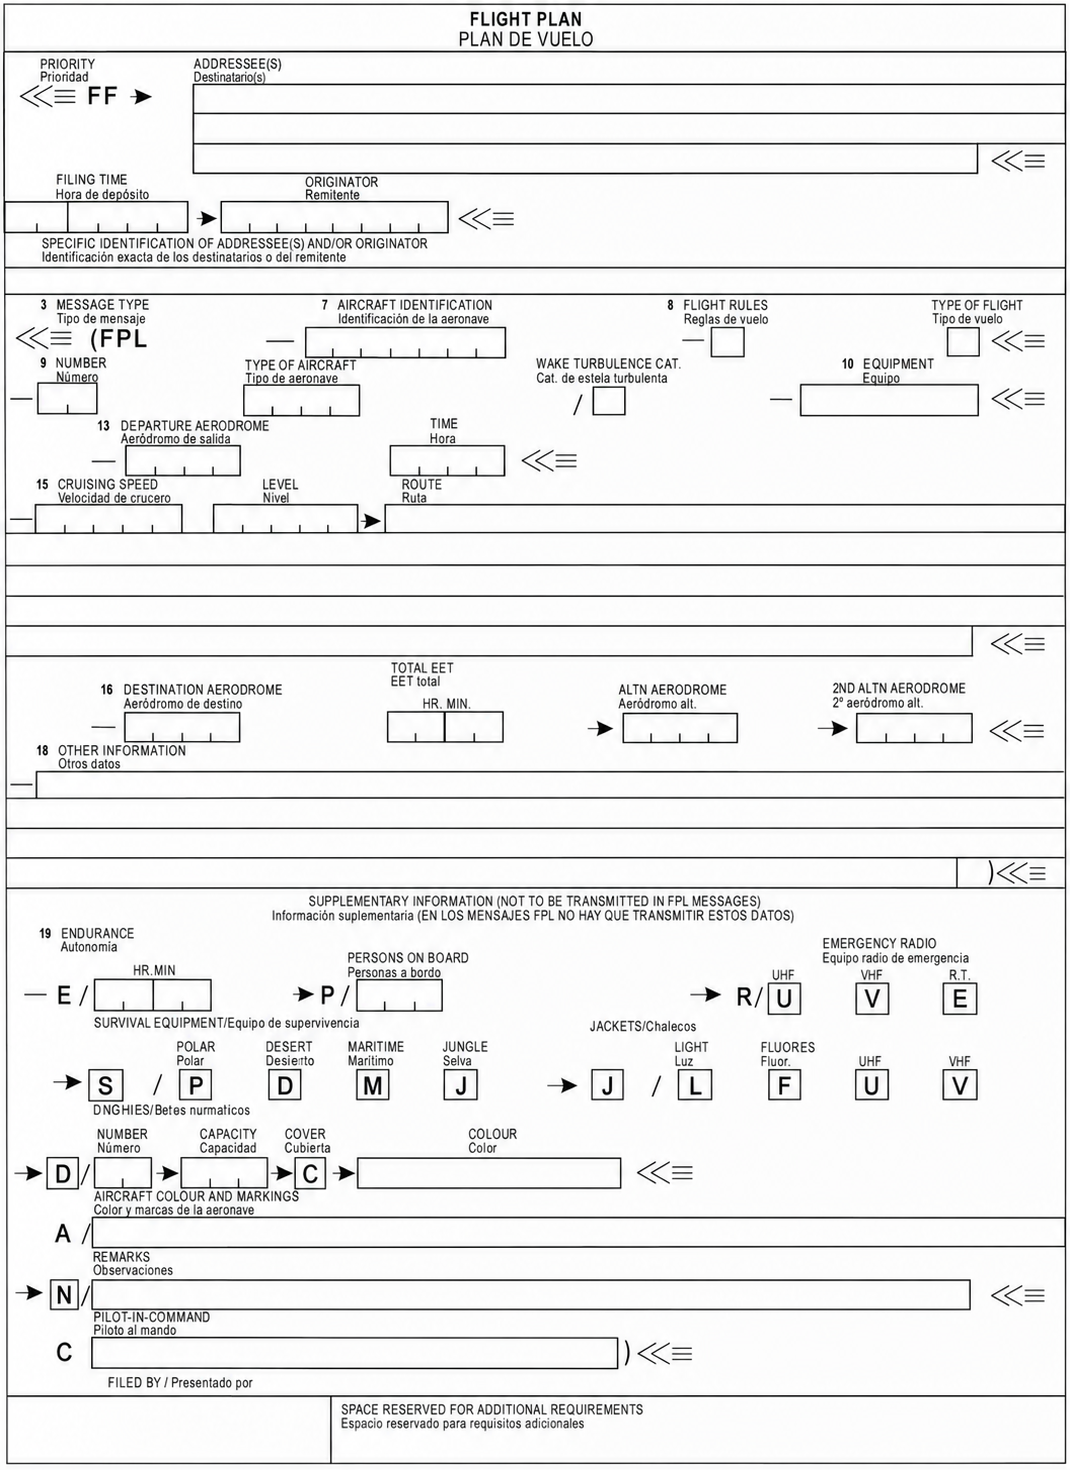
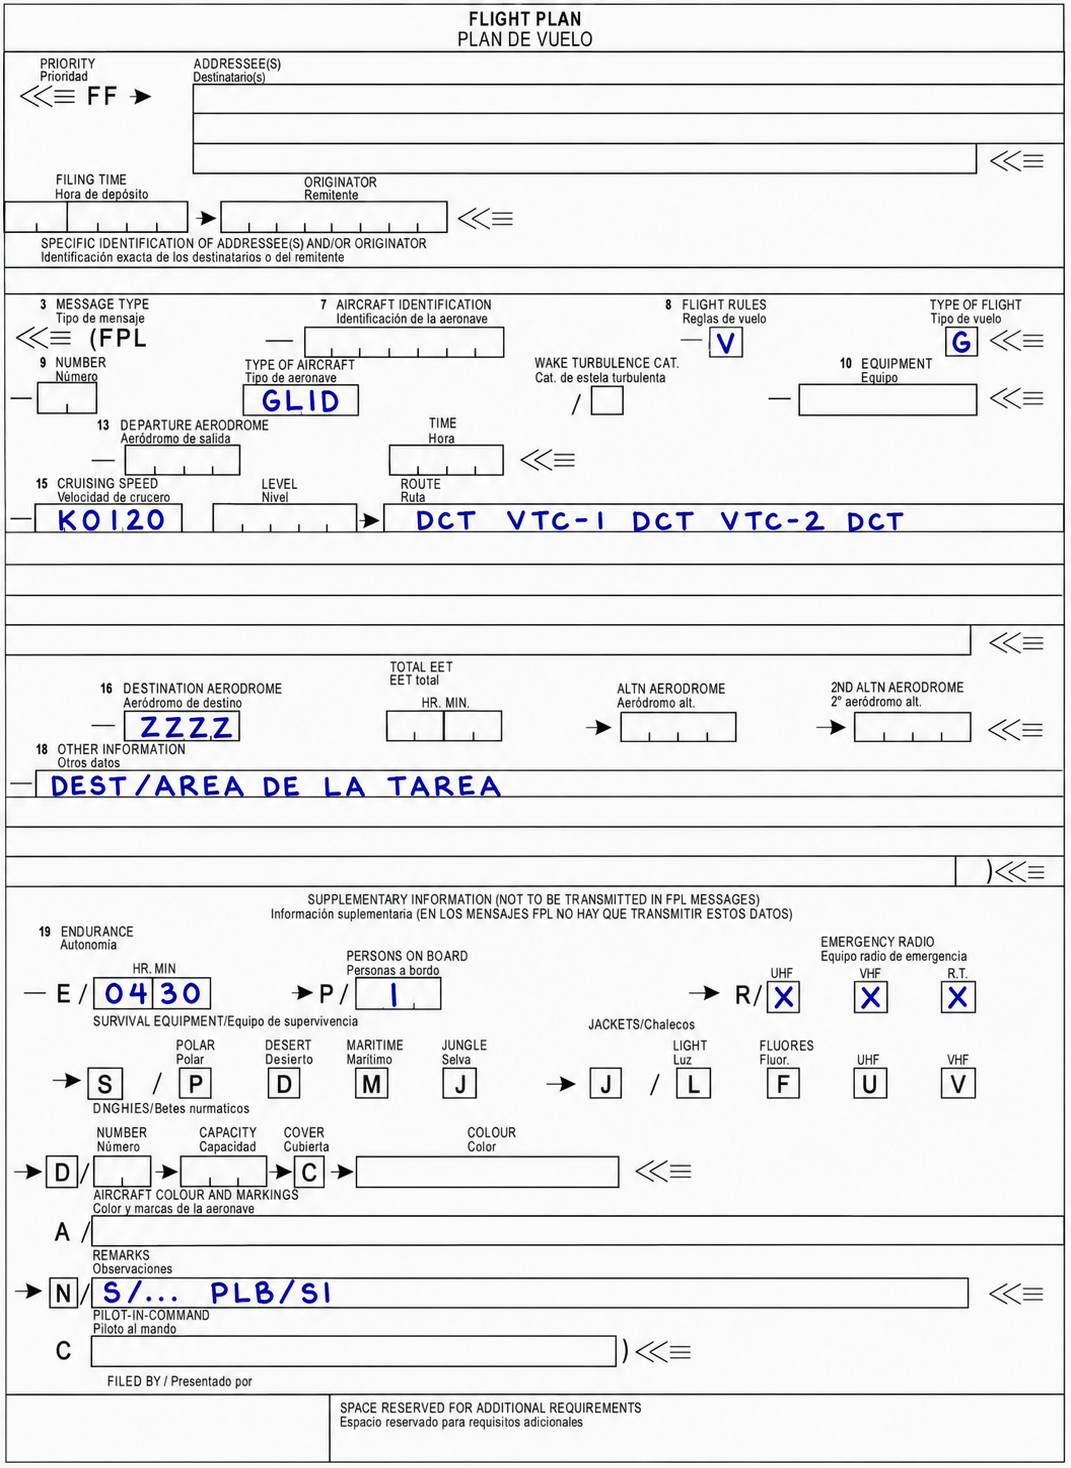
fix(07-cap04): rellenar el formulario FPL con el ejemplo del texto
La versión anterior de la ilustración iba en blanco pese a que el pie
decía «rellenado». Ahora lleva el mismo ejemplo que cap04 desarrolla:
casillas 8, 9, 15, 16, 18 y 19.

diff --git a/07-planificacion-rendimiento/CHANGELOG-07.md b/07-planificacion-rendimiento/CHANGELOG-07.md
@@ -27,7 +27,7 @@ rompe la compilación.
 * **cap02, curva polar** — se rehace con **tres** puntos numerados (1 pérdida, 2 mínimo descenso, 3 máximo planeo) en vez de dos con bocadillos en inglés, y en km/h y m/s en vez de nudos. Sigue el mismo criterio que la curva polar de 05-principios-vuelo. El pie pasa de «dos velocidades clave» a «tres velocidades clave».
 * **cap02, desplazamiento de la polar con el peso** — tabla traducida a español, mismos valores (libras y nudos).
 * **cap02, efecto del viento sobre la polar** — gráfico traducido a español y a km/h y m/s; se retira además un número residual superpuesto en la esquina que no pertenecía a la figura.
-* **cap04, formulario de plan de vuelo** — sustituye el mockup «FIGURA PENDIENTE» por el formulario ICAO real, bilingüe (EN/ES) en cada casilla. El pie decía «rellenado»: la figura no lleva casillas cumplimentadas, así que se corrige a «con las casillas en español».
+* **cap04, formulario de plan de vuelo** — sustituye el mockup «FIGURA PENDIENTE» por el formulario ICAO real, bilingüe (EN/ES) en cada casilla, cumplimentado con el mismo ejemplo que desarrolla el texto: casilla 8 (V, G), 9 (GLID), 15 (K0120, DCT VTC-1 DCT VTC-2 DCT), 16 (ZZZZ), 18 (DEST/AREA DE LA TAREA) y 19 (E/0430, P/1).
 
 ### Retirado
 
